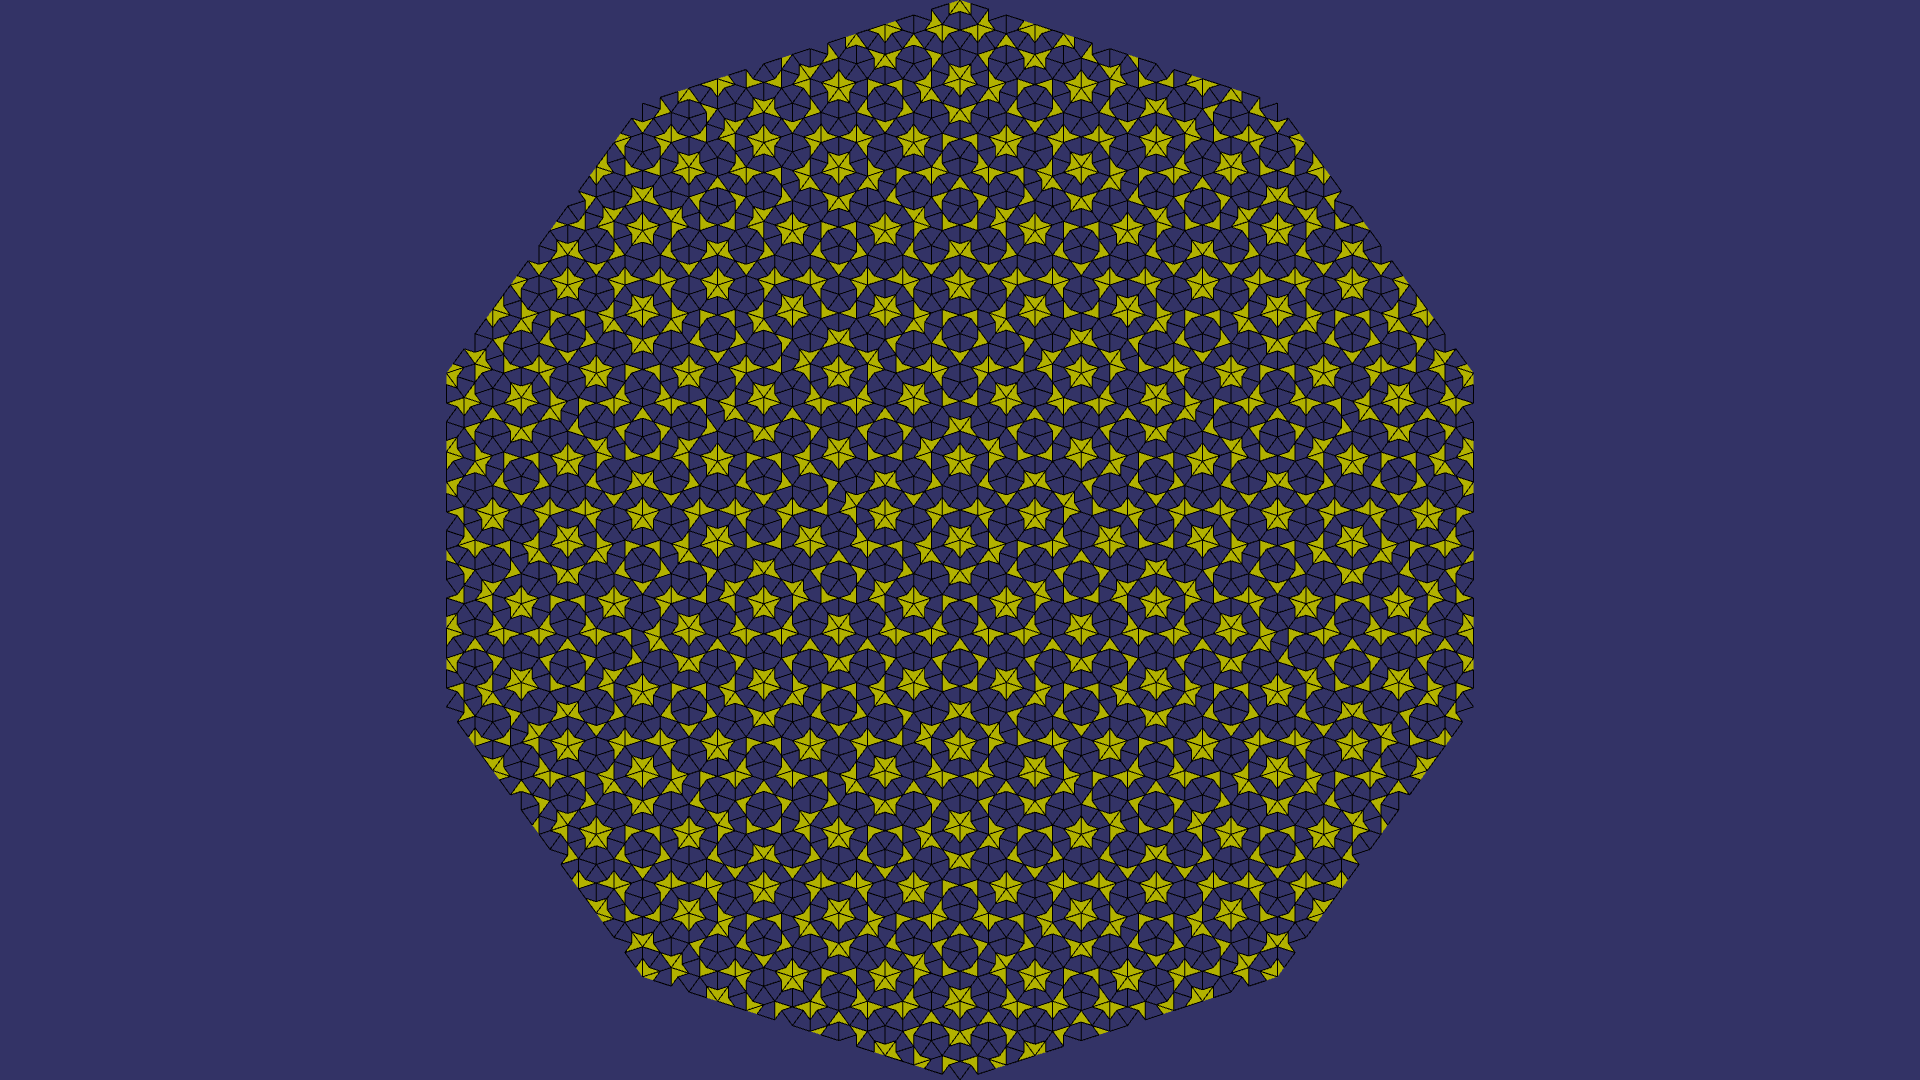
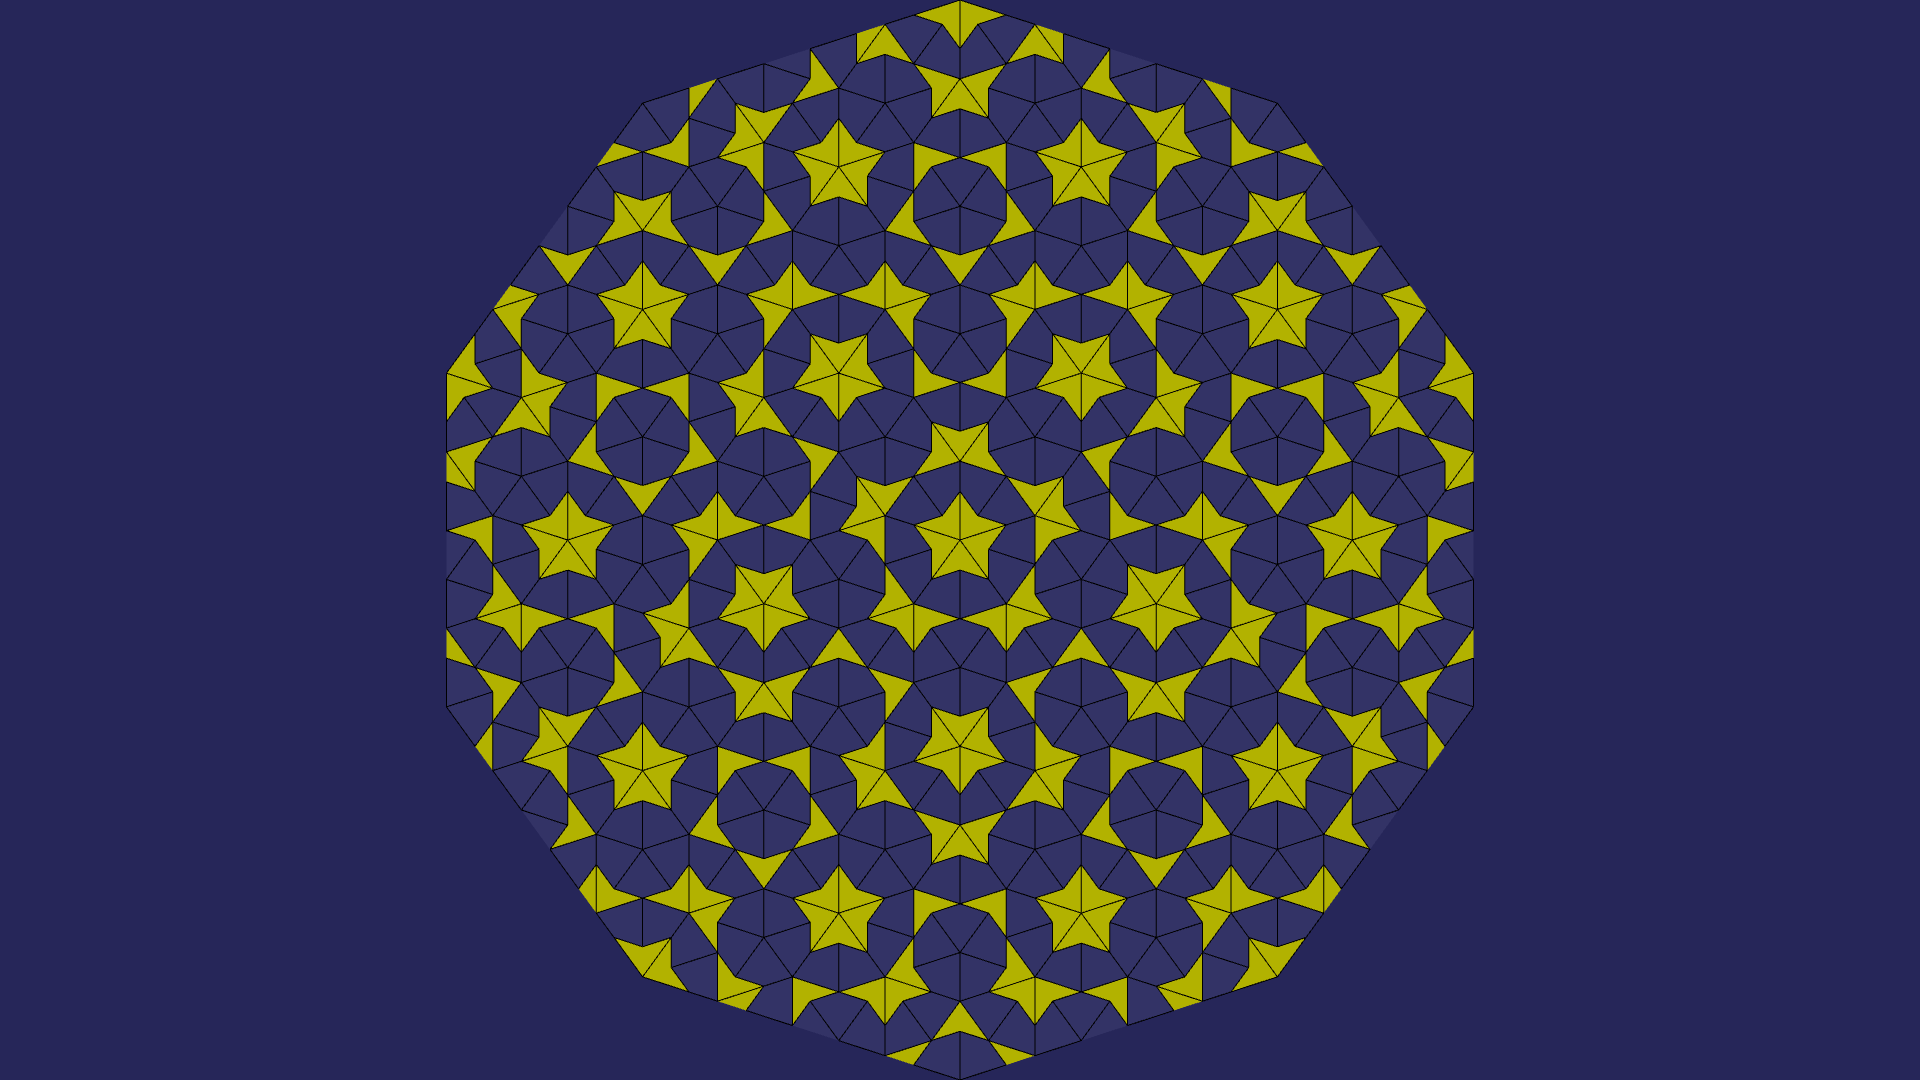
updating scrot

Changed region(s): [[0.2188, 0.0, 0.7812, 1.0]]

diff --git a/penrose.cpp b/penrose.cpp
@@ -11,12 +11,12 @@
 
 static const uint32_t window_w = 1920;
 static const uint32_t window_h = 1080;
-static const uint32_t depth = 7;
+static const uint32_t depth = 5;
 
 static const glm::vec4 primary(0.7f, 0.7f, 0.0f, 1.0f);
 static const glm::vec4 secondary(0.2f, 0.2f, 0.4f, 1.0f);
 static const glm::vec4 black(0.0f, 0.0f, 0.0f, 1.0f);
-static const glm::vec4 background(0.2f, 0.2f, 0.4f, 1.0f);
+static const glm::vec4 background(0.15f, 0.15f, 0.35f, 1.0f);
 
 static const GLfloat phi = 1.0 / ((1.0 + sqrt(5.0)) / 2);
 
